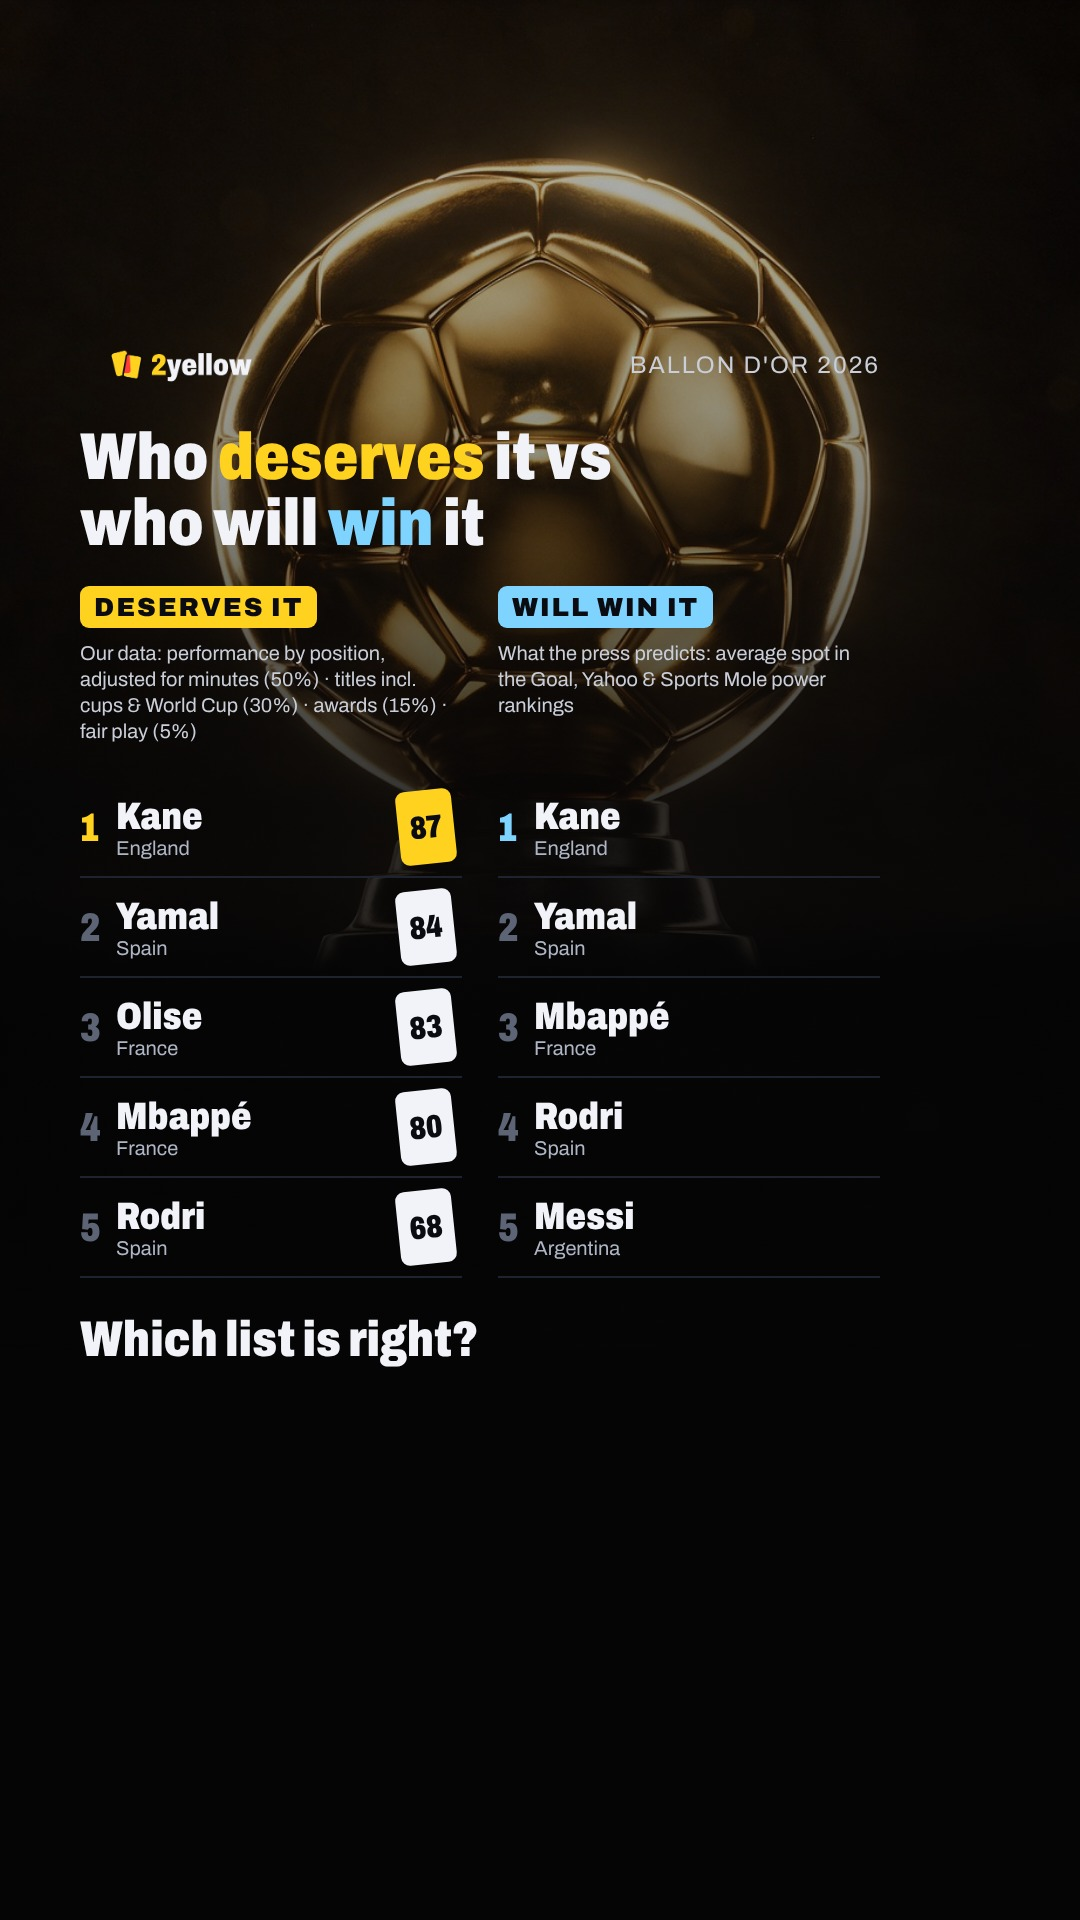
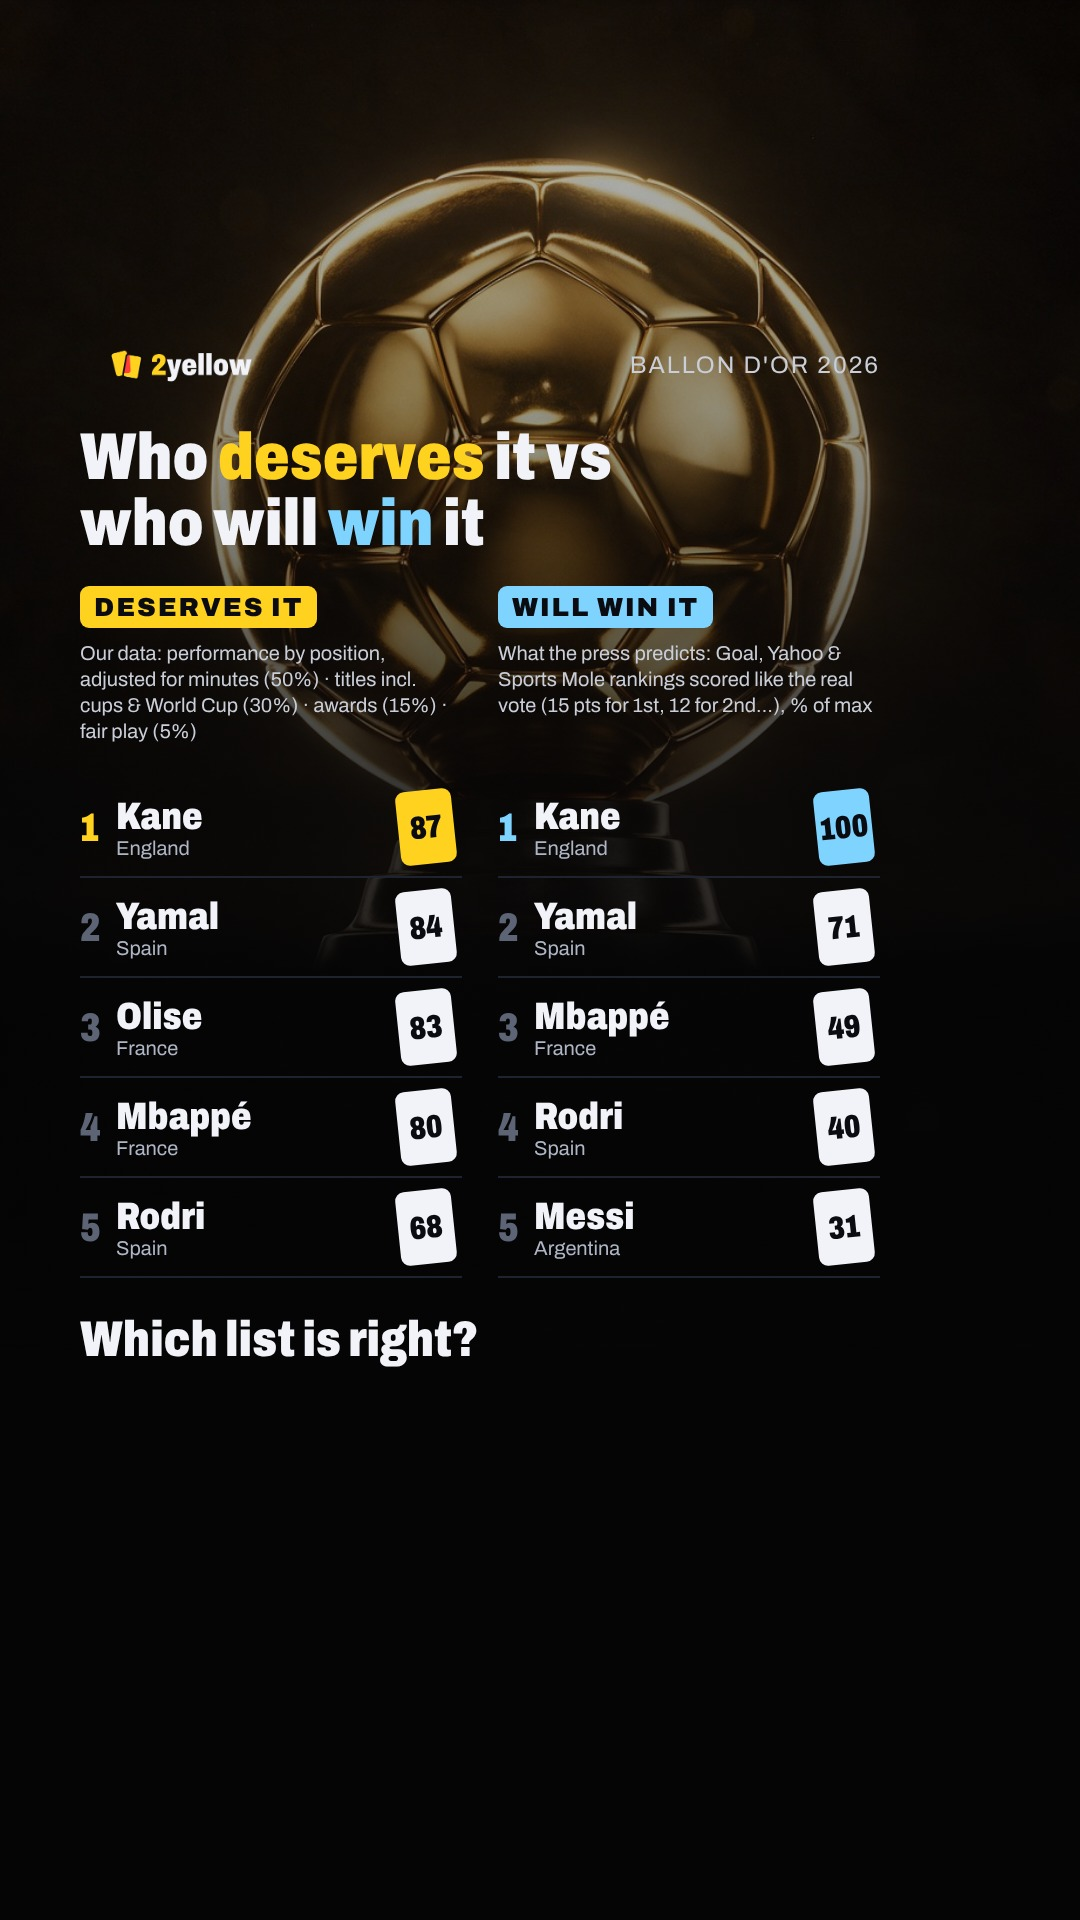
Redes: puntuación en Will win it (puntos tipo votación real)
Claude-Session: https://claude.ai/code/session_01BKUgvQwAgM4aDDu1ZjxbZR

Changed region(s): [[0.7333, 0.4062, 0.825, 0.6562], [0.4583, 0.3125, 0.7944, 0.375]]

diff --git a/scripts/bdo_doble.py b/scripts/bdo_doble.py
@@ -10,8 +10,10 @@ AM, NO, GR = "#FFD21F", "#0A0C11", "#5C6476"
 # (Goal, Yahoo, Sports Mole), que es lo que votan los periodistas.
 MERECE = [("Harry Kane", "Bayern · England", 87), ("Lamine Yamal", "Barcelona · Spain", 84), ("Michael Olise", "Bayern · France", 83),
           ("Kylian Mbappé", "Real Madrid · France", 80), ("Rodri", "Man City · Spain", 68)]
-GANA = [("Harry Kane", "Bayern · England", None), ("Lamine Yamal", "Barcelona · Spain", None), ("Kylian Mbappé", "Real Madrid · France", None),
-        ("Rodri", "Man City · Spain", None), ("Lionel Messi", "Inter Miami · Argentina", None)]
+# Puntos como en la votación real (1º 15, 2º 12, 3º 10, 4º 8, 5º 7, 6º 5, 7º 4…) en cada ranking de prensa, en % del máximo (45):
+# Kane 15+15+15 · Yamal 12+12+8 · Mbappé 0+10+12 · Rodri 0+8+10 · Messi 10+4+0 (Goal, Sports Mole, Yahoo).
+GANA = [("Harry Kane", "Bayern · England", 100), ("Lamine Yamal", "Barcelona · Spain", 71), ("Kylian Mbappé", "Real Madrid · France", 49),
+        ("Rodri", "Man City · Spain", 40), ("Lionel Messi", "Inter Miami · Argentina", 31)]
 def lista(titulo, como, filas, col):
     f = "".join(f'<div style="display:flex;align-items:center;gap:12px;padding:0;height:100px;border-bottom:2px solid #1E2330">'
                 f'<div style="font-size:40px;font-weight:900;font-stretch:75%;width:24px;color:{col if i == 0 else GR}">{i + 1}</div>'
@@ -35,7 +37,7 @@ h = f"""<style>@font-face{{font-family:A;src:url(data:font/woff2;base64,{b(R/'Ar
 <div style="font-size:66px;font-weight:900;font-stretch:80%;line-height:1;margin:24px 0 30px">Who <span style="color:{AM}">deserves</span> it vs<br>who will <span style="color:#7FD4FF">win</span> it</div>
 <div style="display:flex;gap:36px">
 {lista("DESERVES IT", "Our data: performance by position, adjusted for minutes (50%) · titles incl. cups &amp; World Cup (30%) · awards (15%) · fair play (5%)", MERECE, AM)}
-{lista("WILL WIN IT", "What the press predicts: average spot in the Goal, Yahoo &amp; Sports Mole power rankings", GANA, "#7FD4FF")}
+{lista("WILL WIN IT", "What the press predicts: Goal, Yahoo &amp; Sports Mole rankings scored like the real vote (15 pts for 1st, 12 for 2nd…), % of max", GANA, "#7FD4FF")}
 </div>
 <div style="font-size:50px;font-weight:900;font-stretch:80%;margin-top:34px">Which list is right?</div></div>"""
 from playwright.sync_api import sync_playwright
